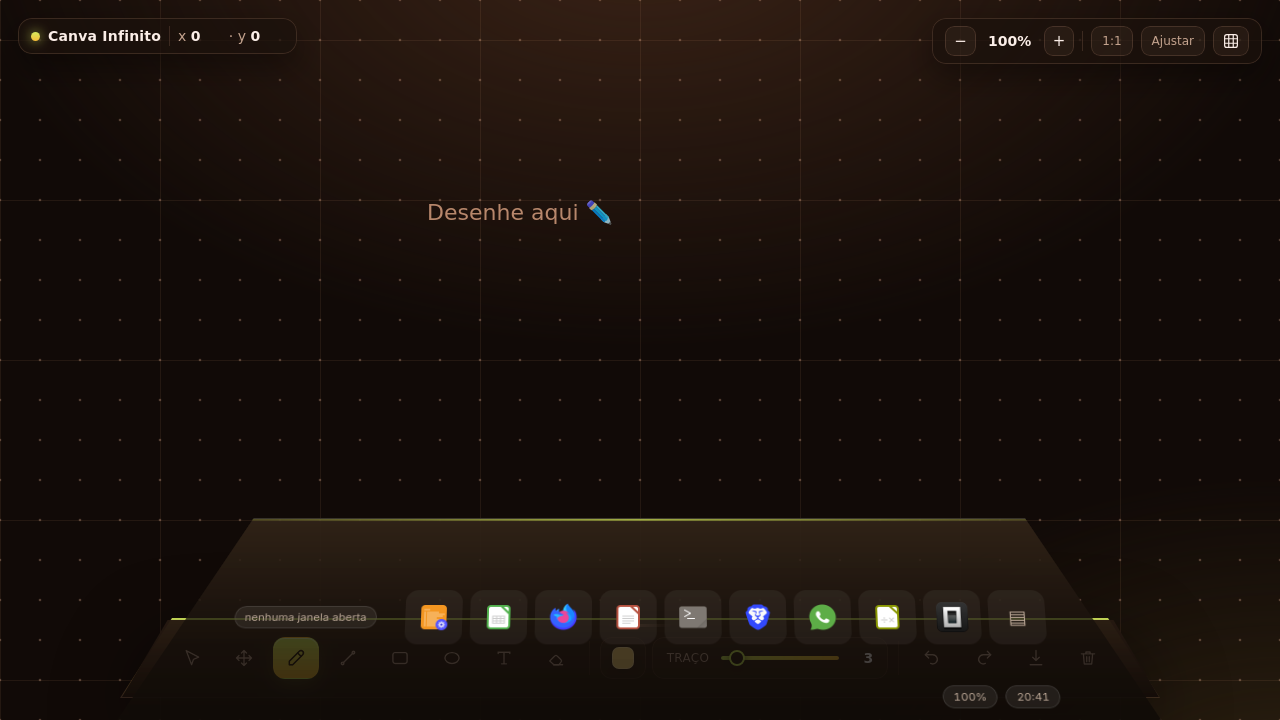
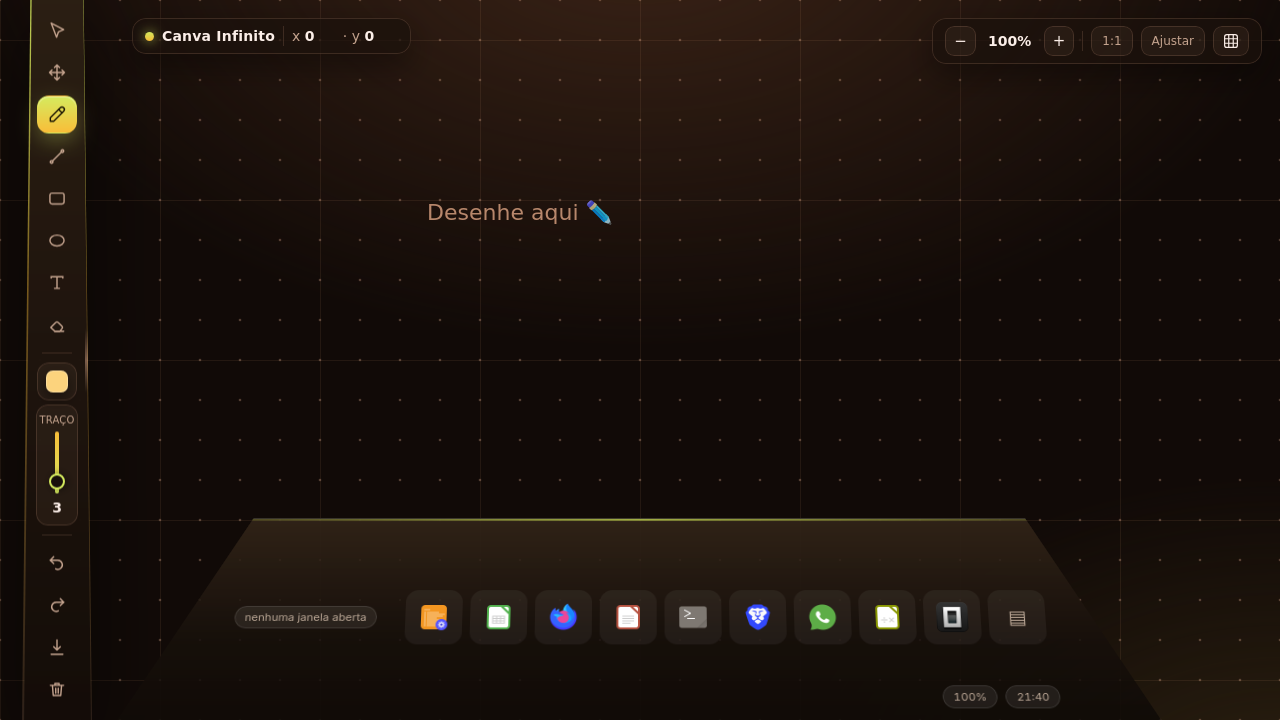
compositor: corrige a captura de tela travando com a cena estática
O screencopy (padrao-shot/grim) ficava esperando um commit que nunca
chegava: com a tela parada, nada agendava frame e a captura não voltava.

Causa: no wlroots 0.20, wlr_output_update_needs_frame() sai cedo se
needs_frame já estiver marcado — e needs_frame só é limpo quando a saída
é habilitada/desabilitada, ou seja, fica true para sempre. Com isso o
sinal needs_frame nunca mais é emitido, o scene output não agenda frame
e o commit com buffer (que é o que dispara o "ready" do screencopy) não
acontece.

Correção: limpar needs_frame depois do commit, para que cada pedido de
frame volte a ser agendado.

As capturas do deck foram regeneradas com a barra na lateral esquerda.

diff --git a/compositor/src/output.c b/compositor/src/output.c
@@ -37,6 +37,13 @@ static void output_frame(struct wl_listener *listener, void *data) {
 	/* comite sempre: o screencopy agenda frames próprios e pode pedir
 	   um commit que o teste de needs_frame sozinho não antecipa */
 	wlr_scene_output_commit(output->scene_output, NULL);
+	/* O wlroots 0.20 só limpa needs_frame quando habilita/desabilita a
+	 * saída. Com ele marcado, wlr_output_update_needs_frame() não emite
+	 * mais o sinal needs_frame e o scene output para de agendar frames —
+	 * aí o screencopy (grim/padrao-shot) fica esperando um commit que
+	 * nunca chega e a captura trava. Limpando depois do commit, cada
+	 * pedido de frame volta a ser agendado. */
+	output->wlr_output->needs_frame = false;
 	struct timespec now;
 	clock_gettime(CLOCK_MONOTONIC, &now);
 	wlr_scene_output_send_frame_done(output->scene_output, &now);
